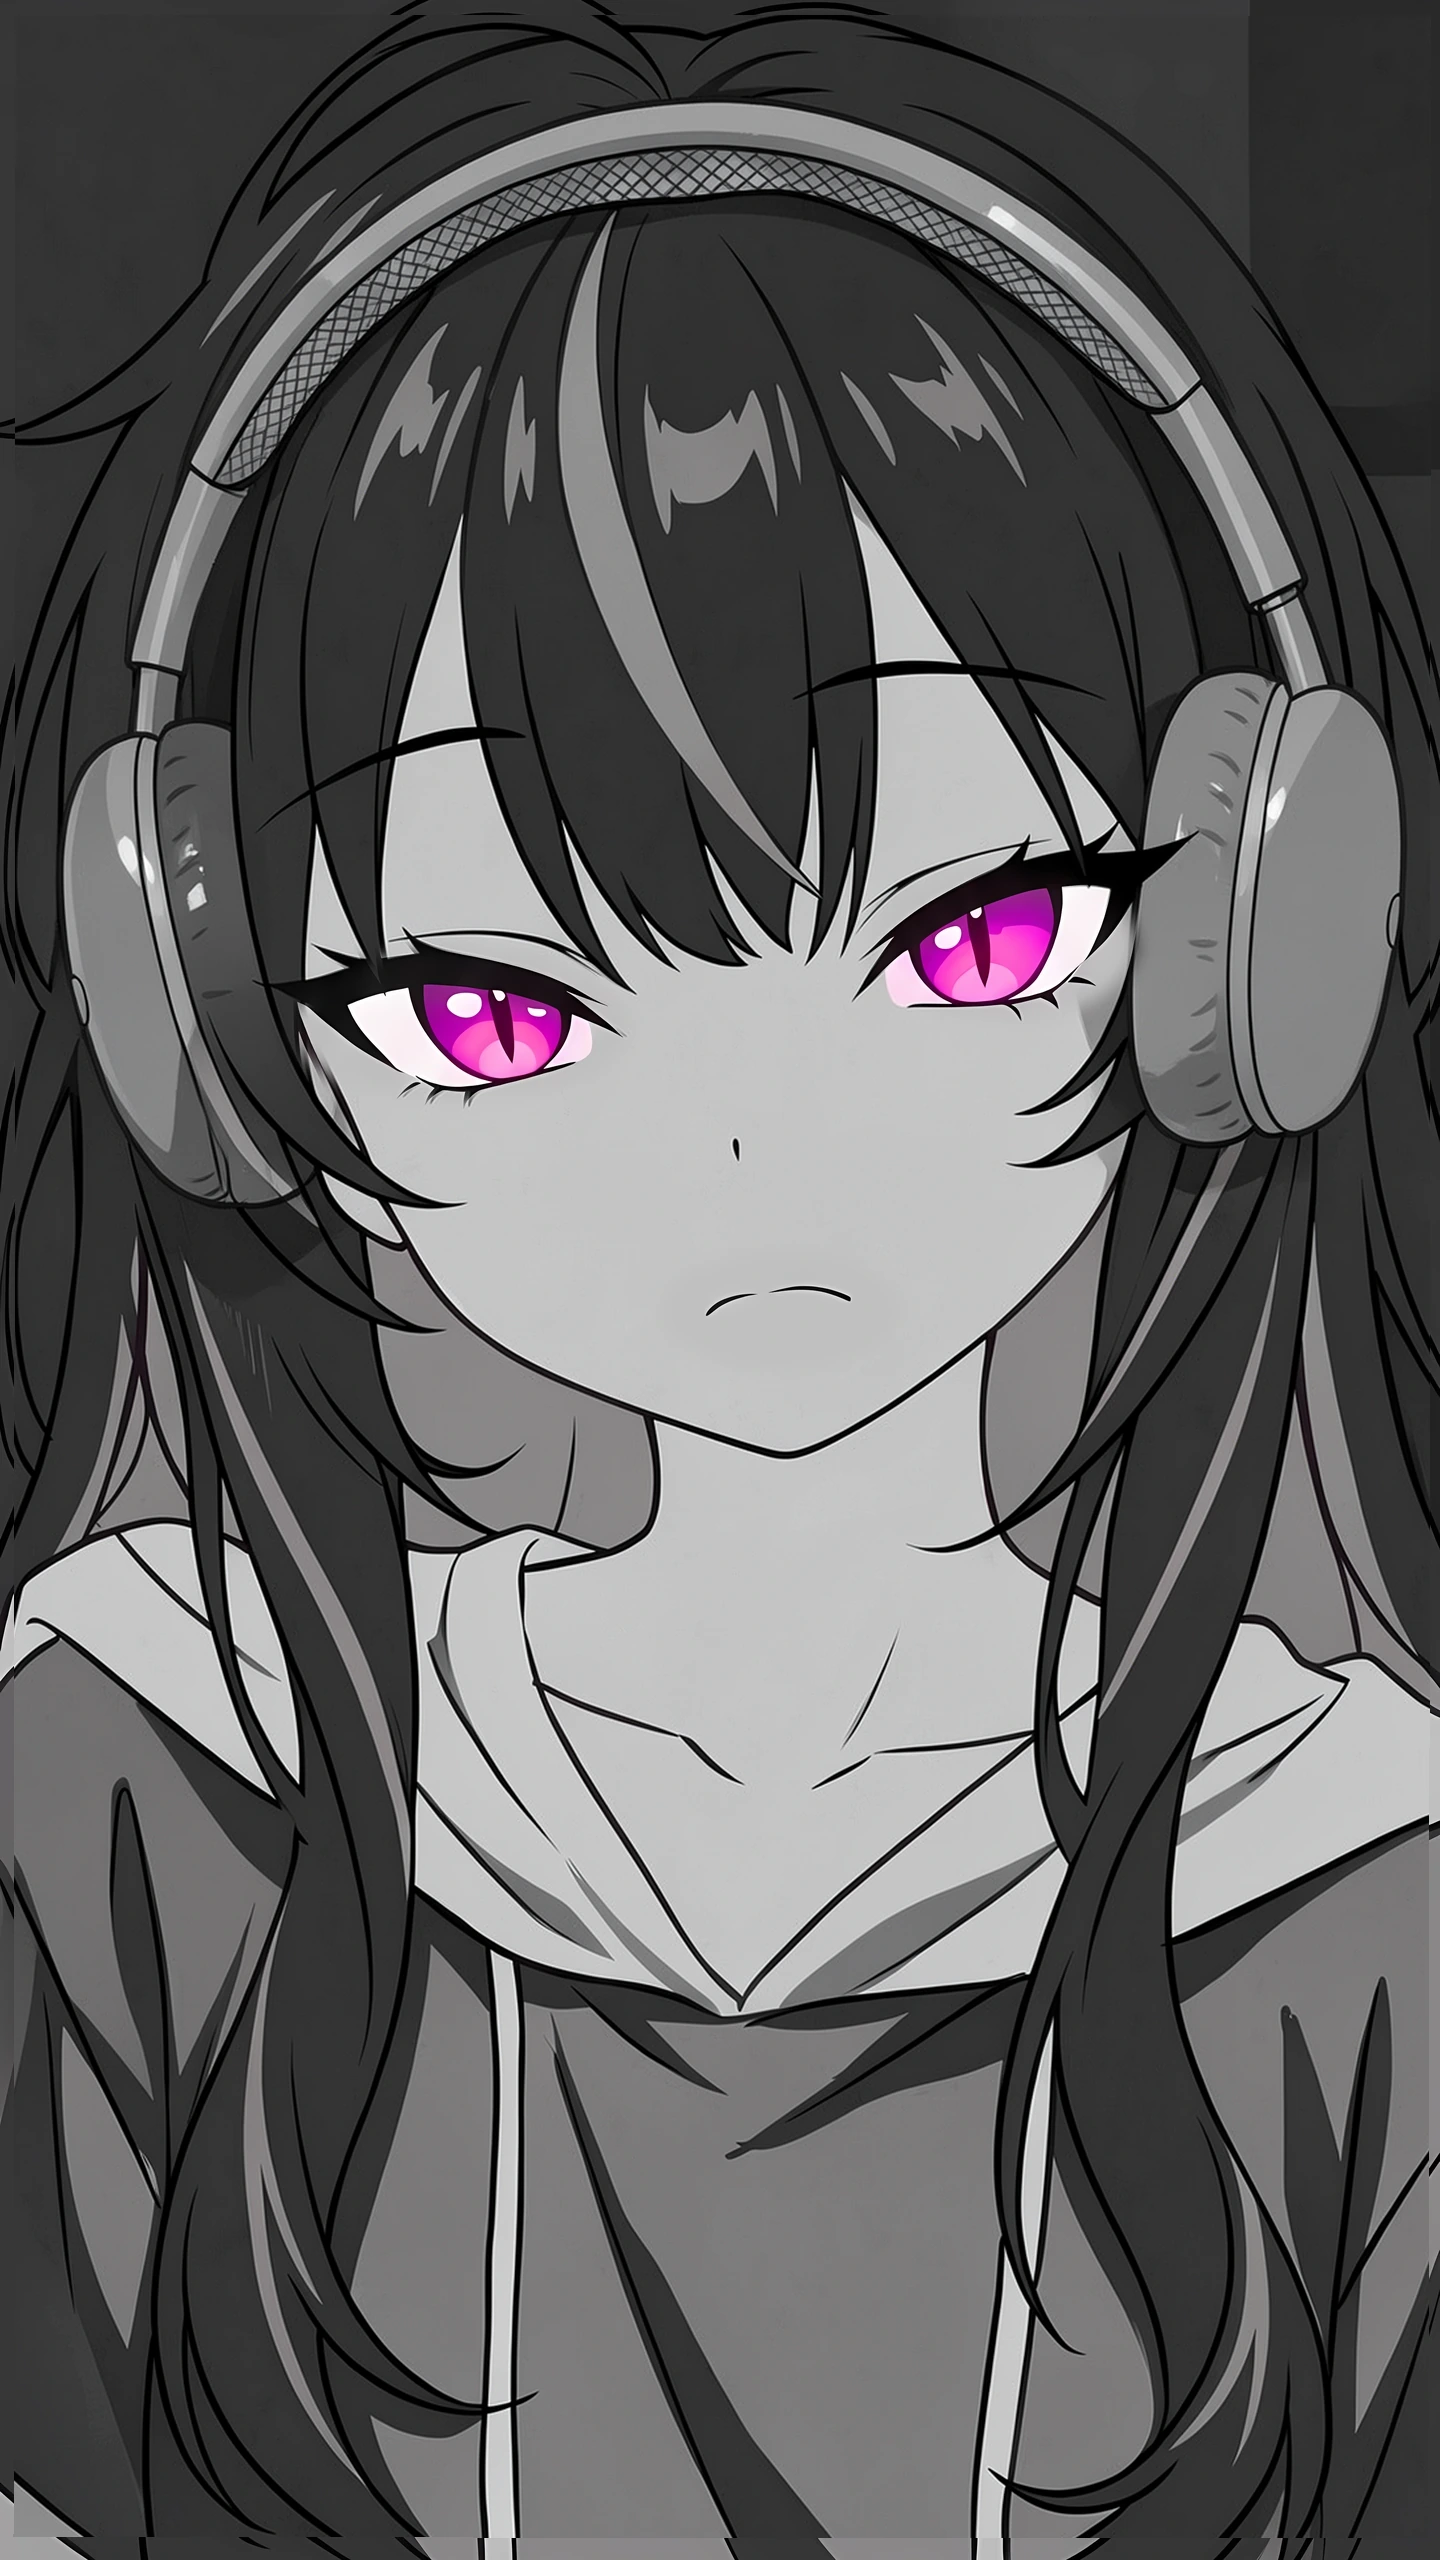
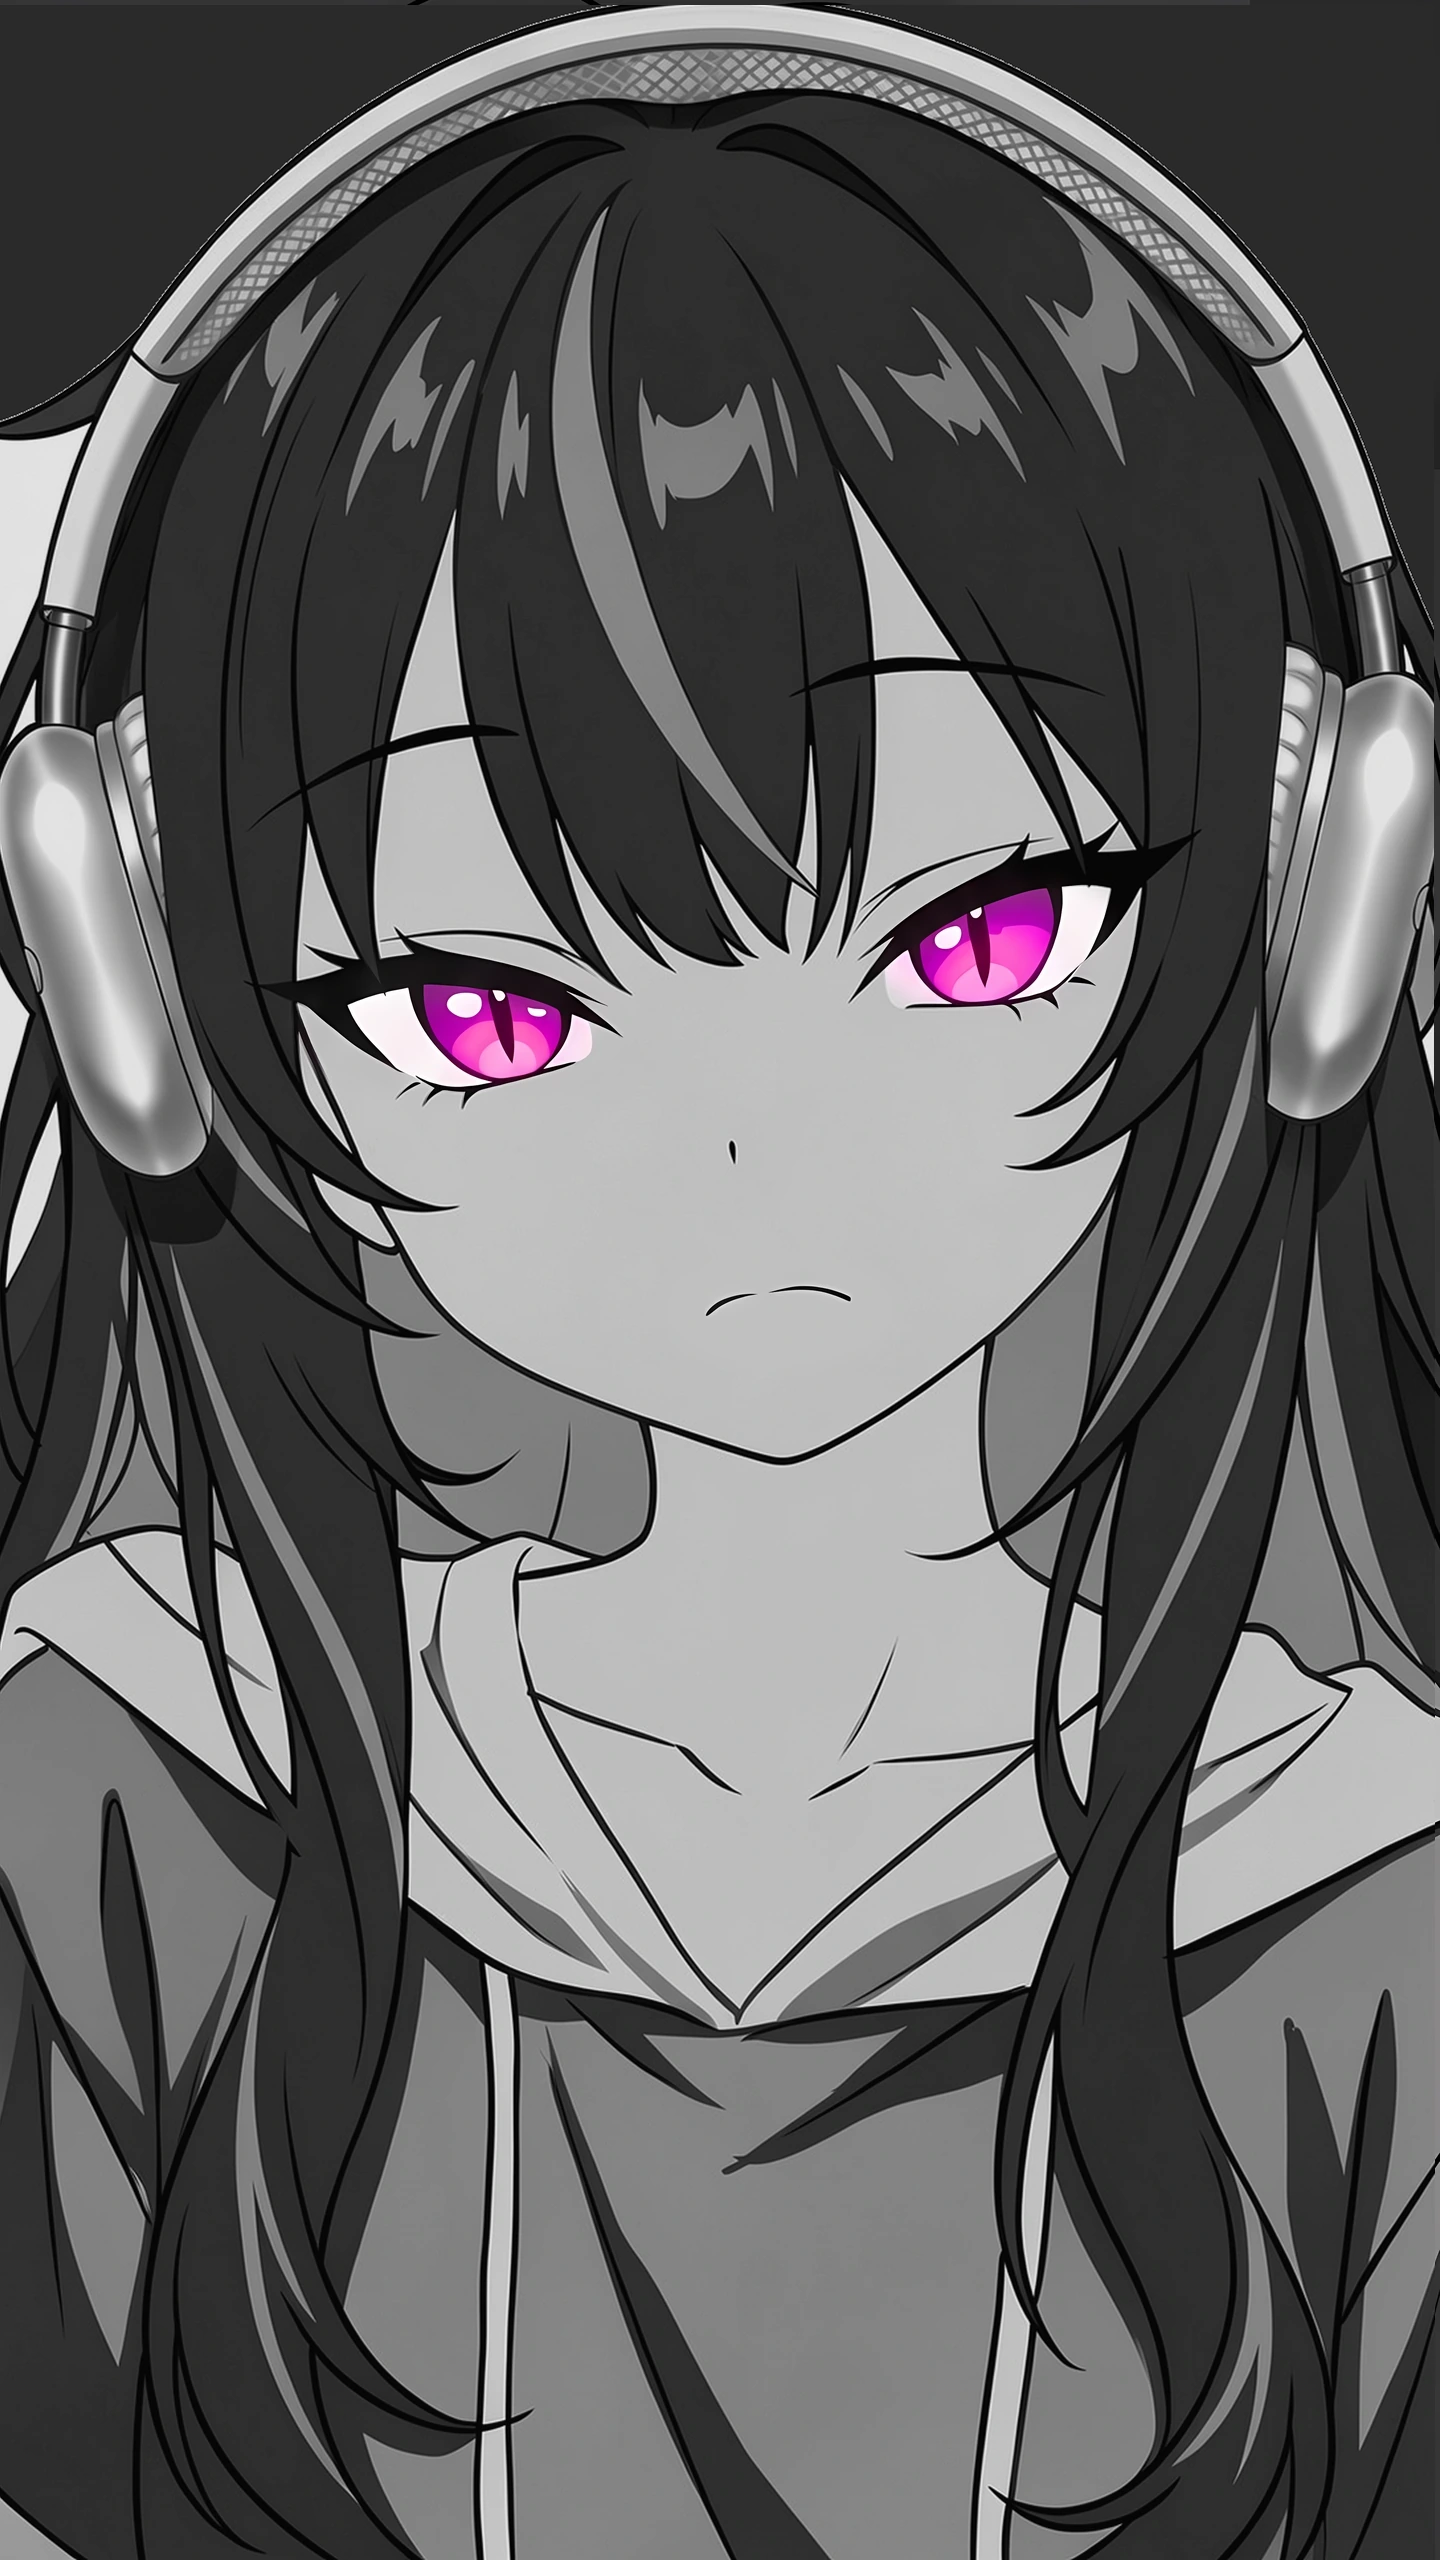
Redraw her with the side locks in front of the headphone cups
The redraw now takes the user's picture of her wearing them as a third
reference, so her hair covers each cup's inner half and only the shell shows;
blend.py restores her dark backdrop and matches the grey of her skin.

diff --git a/scripts/haru-headphones/redraw.py b/scripts/haru-headphones/redraw.py
@@ -1,18 +1,33 @@
 """Redraws Haru's bust wearing the headphones with Flux 2 Klein (ComfyUI on 8188), using her picture and the
-headphone sheet as reference images.  python redraw.py <bust> <headphones> <out-prefix> [seed ...]"""
+headphone sheet as reference images, and optionally a picture of her wearing them for how they sit.
+python redraw.py <bust> <headphones> <out-prefix> [seed ...] [--wearing <reference>]"""
 import json, sys, time, uuid, urllib.request
 from pathlib import Path
 
 API = 'http://127.0.0.1:8188'
-bust, phones, out = sys.argv[1], sys.argv[2], sys.argv[3]
-seeds = [int(s) for s in sys.argv[4:]] or [11]
+args = sys.argv[1:]
+wearing = args[args.index('--wearing') + 1] if '--wearing' in args else None
+if wearing: del args[args.index('--wearing'):args.index('--wearing') + 2]
+bust, phones, out = args[0], args[1], args[2]
+seeds = [int(s) for s in args[3:]] or [11]
 W, H = 1088, 1936  # her picture's 9:16, about 2 MP, multiples of 16
 
-PROMPT = ("Edit the first image: the same girl now wears the silver over-ear headphones from the second image. "
+PROMPT_PLAIN = ("Edit the first image: the same girl now wears the silver over-ear headphones from the second image. "
           "The headband rests on top of her head over her hair, the ear cups sit over her ears on both sides of her "
           "head, and strands of her hair fall over the edges of the cups. Keep everything else exactly the same: her "
           "face, eyes, expression, hair, hoodie, pose, framing and the flat greyscale anime line-art style with "
           "magenta eyes. The headphones are drawn in the same greyscale style with clean dark outlines.")
+
+# With the wearing reference: her side locks hang in FRONT of the cups and hide their inner half, as in it.
+PROMPT_WEARING = ("Edit the first image: the same girl now wears the silver over-ear headphones from the second image, "
+          "worn exactly as in the third image. The headband arcs over the top of her head above her hair. The ear cups "
+          "sit behind her hair at the sides of her head: the long locks of hair that frame her face hang in front of "
+          "each cup and cover its inner half and its cushion, so only the outer shell of each cup shows, sticking out "
+          "past the hair. Her hair is solid and opaque over the cups. Keep everything else exactly the same as the "
+          "first image: her face, eyes, expression, hair shape, hoodie, pose, framing, and the flat greyscale anime "
+          "line-art style with magenta eyes; ignore the third image's colours. The headphones are greyscale with clean "
+          "dark outlines.")
+PROMPT = PROMPT_WEARING if wearing else PROMPT_PLAIN
 
 def upload(path):
     boundary = uuid.uuid4().hex
@@ -22,7 +37,7 @@ def upload(path):
     req = urllib.request.Request(f'{API}/upload/image', body, {'Content-Type': f'multipart/form-data; boundary={boundary}'})
     return json.load(urllib.request.urlopen(req))['name']
 
-def graph(seed, bust_name, phones_name):
+def graph(seed, bust_name, phones_name, wearing_name=None):
     g = {
         'unet': {'class_type': 'UNETLoader', 'inputs': {'unet_name': 'flux-2-klein-4b.safetensors', 'weight_dtype': 'default'}},
         'clip': {'class_type': 'CLIPLoader', 'inputs': {'clip_name': 'qwen_3_4b.safetensors', 'type': 'flux2'}},
@@ -38,16 +53,22 @@ def graph(seed, bust_name, phones_name):
         'ref2': {'class_type': 'ReferenceLatent', 'inputs': {'conditioning': ['ref1', 0], 'latent': ['lat2', 0]}},
         'neg': {'class_type': 'ConditioningZeroOut', 'inputs': {'conditioning': ['pos', 0]}},
         'empty': {'class_type': 'EmptyFlux2LatentImage', 'inputs': {'width': W, 'height': H, 'batch_size': 1}},
-        'ks': {'class_type': 'KSampler', 'inputs': {'model': ['unet', 0], 'positive': ['ref2', 0], 'negative': ['neg', 0], 'latent_image': ['empty', 0],
+        'ks': {'class_type': 'KSampler', 'inputs': {'model': ['unet', 0], 'positive': ['ref3' if wearing_name else 'ref2', 0], 'negative': ['neg', 0], 'latent_image': ['empty', 0],
                                                     'seed': seed, 'steps': 4, 'cfg': 1.0, 'sampler_name': 'euler', 'scheduler': 'simple', 'denoise': 1.0}},
         'dec': {'class_type': 'VAEDecode', 'inputs': {'samples': ['ks', 0], 'vae': ['vae', 0]}},
         'save': {'class_type': 'SaveImage', 'inputs': {'images': ['dec', 0], 'filename_prefix': 'haru-headphones'}},
     }
+    if wearing_name:
+        g['img3'] = {'class_type': 'LoadImage', 'inputs': {'image': wearing_name}}
+        g['img3s'] = {'class_type': 'ImageScaleToTotalPixels', 'inputs': {'image': ['img3', 0], 'upscale_method': 'lanczos', 'megapixels': 1.0, 'resolution_steps': 16}}
+        g['lat3'] = {'class_type': 'VAEEncode', 'inputs': {'pixels': ['img3s', 0], 'vae': ['vae', 0]}}
+        g['ref3'] = {'class_type': 'ReferenceLatent', 'inputs': {'conditioning': ['ref2', 0], 'latent': ['lat3', 0]}}
     return g
 
 bust_name, phones_name = upload(bust), upload(phones)
+wearing_name = upload(wearing) if wearing else None
 for seed in seeds:
-    req = urllib.request.Request(f'{API}/prompt', json.dumps({'prompt': graph(seed, bust_name, phones_name)}).encode(), {'Content-Type': 'application/json'})
+    req = urllib.request.Request(f'{API}/prompt', json.dumps({'prompt': graph(seed, bust_name, phones_name, wearing_name)}).encode(), {'Content-Type': 'application/json'})
     pid = json.load(urllib.request.urlopen(req))['prompt_id']
     start = time.time()
     while True:

diff --git a/scripts/haru-headphones/blend.py b/scripts/haru-headphones/blend.py
@@ -6,6 +6,21 @@ from PIL import Image, ImageDraw, ImageFilter
 
 orig = Image.open(sys.argv[1]).convert('RGB')
 red = Image.open(sys.argv[2]).convert('RGB').resize(orig.size, Image.LANCZOS)
+
+# A redraw that borrowed the wearing reference's white backdrop gets hers back: near-white reached from the top
+# corners (the line art walls off the silver highlights) becomes her picture's dark grey.
+backdrop = orig.getpixel((1420, 40))
+for seed in [(5, 5), (red.width - 6, 5)]:
+    if sum(red.getpixel(seed)) > 3 * 225: ImageDraw.floodfill(red, seed, backdrop, thresh=40)
+# Greyscale like her (her irises come from the original below), with the grey matched to hers on bare skin.
+grey = np.asarray(red.convert('L')).astype(float)
+skin = [(640, 1120, 760, 1200), (380, 1160, 470, 1240), (990, 1080, 1090, 1160)]  # cheeks and below the nose
+ref_l = np.asarray(orig.convert('L')).astype(float)
+src = np.concatenate([grey[y0:y1, x0:x1].ravel() for x0, y0, x1, y1 in skin]); dst = np.concatenate([ref_l[y0:y1, x0:x1].ravel() for x0, y0, x1, y1 in skin])
+gain = dst.std() / max(src.std(), 1e-3) if src.std() > 4 else 1.0
+grey = np.clip((grey - src.mean()) * gain + dst.mean(), 0, 255) if gain < 3 else np.clip(grey - src.mean() + dst.mean(), 0, 255)
+print(f'skin grey {src.mean():.0f} -> {dst.mean():.0f}')
+red = Image.fromarray(grey.astype(np.uint8)).convert('RGB')
 EYES = np.array([(500, 1012), (985, 932)], float)  # iris centres in portraitRig.ts's bust view
 
 def eyes(im):
@@ -21,7 +36,7 @@ def similarity(src, dst):
     k = d / s; t = complex(*dst[0]) - k * complex(*src[0])
     return k, t
 
-found = eyes(red); seen = eyes(orig)
+found = eyes(Image.open(sys.argv[2]).convert('RGB').resize(orig.size, Image.LANCZOS)); seen = eyes(orig)
 print('original eyes measured', seen.round(), 'rig says', EYES)
 print('redraw eyes', found.round())
 k, t = similarity(found, seen)
